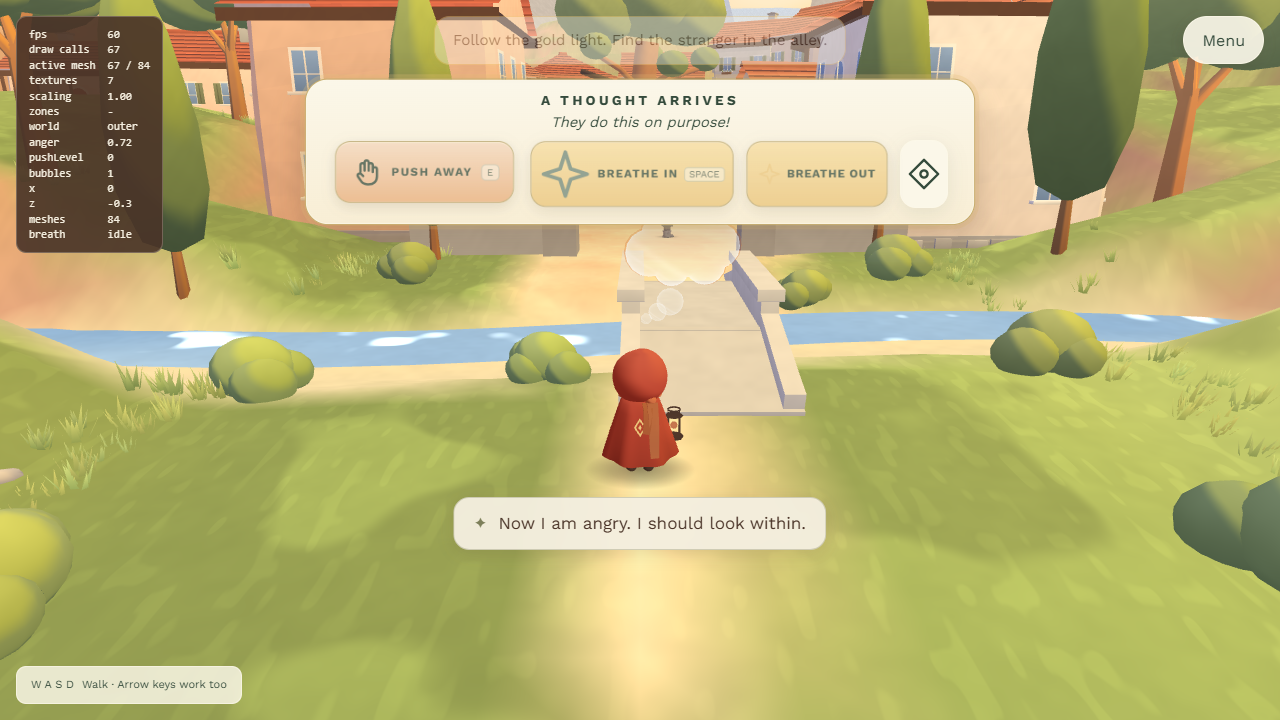
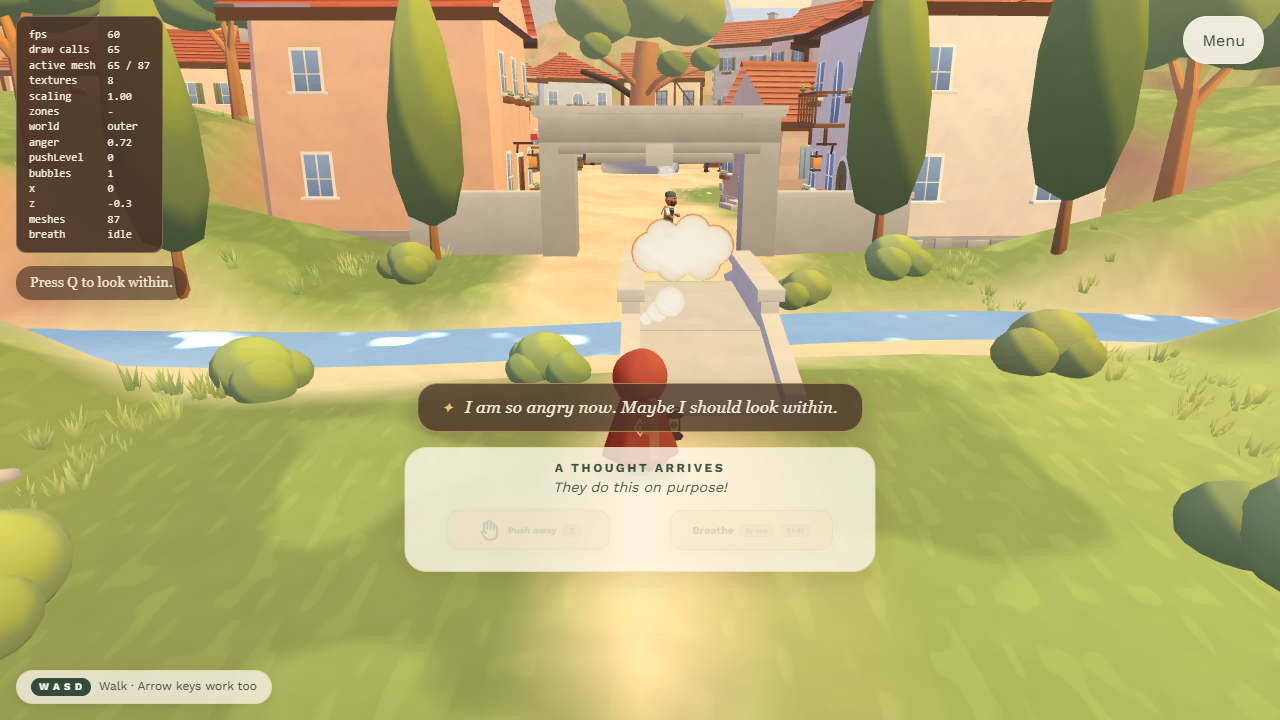
ui: replace tutorial cards with control spotlight and callout; one control set on touch laptops

diff --git a/src/game/Story.ts b/src/game/Story.ts
@@ -13,7 +13,7 @@ import { EndCard } from '../ui/EndCard';
 import { Beacon } from './Beacon';
 import { Wayfinding } from './Wayfinding';
 import { NextStepHint } from '../ui/NextStepHint';
-import { ActionCard, type ActionCardView } from '../ui/ActionCard';
+import { ControlSpotlight, type SpotlightTarget } from '../ui/ControlSpotlight';
 import { SpeechBubble } from '../ui/SpeechBubble';
 import type { Anger } from './Anger';
 import type { Lantern } from './Lantern';
@@ -61,7 +61,8 @@ export class Story {
   private readonly outerWay: Wayfinding;
   private readonly innerWay: Wayfinding;
   private readonly nextStep: NextStepHint;
-  private readonly card: ActionCard;
+  private readonly spot: ControlSpotlight;
+  private spotId = '';
   private readonly cardDone = new Set<string>();
   /** Idle reminder: current step signature and seconds spent in it. */
   private stepSig = '';
@@ -107,8 +108,7 @@ export class Story {
     this.outerWay = new Wayfinding(deps.outer.scene, (x, z) => deps.outer.groundY(x, z));
     this.innerWay = new Wayfinding(deps.inner.scene, (x, z) => deps.inner.groundY(x, z));
     this.nextStep = new NextStepHint(deps.ui);
-    this.card = new ActionCard(deps.ui, deps.dialogue.line('cardClose'), deps.actions);
-    this.card.onDismiss = (id) => this.cardDone.add(id);
+    this.spot = new ControlSpotlight(deps.ui, deps.touch);
     // Before the bump both trees are healthy and the root is not burned (reveal rule).
     deps.outer.setOldTreeBranchHealth(1);
     deps.inner.setBranchHealth(1);
@@ -262,7 +262,7 @@ export class Story {
     const needAngry = f.bumped && !this.angryInnerVisited && !f.helped && !nearAlley;
     if (shown === 'outer' && !busy && needAngry) {
       this.angryT += dt;
-      if (this.angryT >= TUNING.story.hintRepeatS * 0.5 && !d.dialogue.busy && this.card.id === '') {
+      if (this.angryT >= TUNING.story.hintRepeatS * 0.5 && !d.dialogue.busy && this.spotId === '') {
         this.angryT = 0;
         this.say('angryLookWithin');
       }
@@ -377,7 +377,7 @@ export class Story {
       sig = uiKey;
     } else if (key === 'stepImp') sig = `${key}${this.impBreaths}`;
     this.updateCard(key, busy, dt);
-    this.updateReminder(dt, sig, key, busy || this.card.id !== '');
+    this.updateReminder(dt, sig, key, busy || this.spotId !== '');
     // Stagger: if the inner voice is speaking when the objective changes, the new objective waits a moment.
     if (uiKey !== this.shownUiKey) {
       if (this.shownUiKey !== '' && d.dialogue.busy && this.objectiveDelay < 0) this.objectiveDelay = OBJECTIVE_STAGGER_S;
@@ -394,49 +394,50 @@ export class Story {
       this.objectiveDelay = -1;
     }
     // While a card or the opening line is the one text on screen, the objective and its label stay hidden.
-    const alone = this.card.id !== '' || (d.dialogue.busy && this.lastLineKey === 'taskLantern');
+    const alone = this.spot.shown || (d.dialogue.busy && this.lastLineKey === 'taskLantern');
     this.nextStep.update(alone ? `${this.shownUiKey}#` : this.shownUiKey, alone ? '' : this.shownLine, label ? d.dialogue.line(label) : '', d.dialogue.line('targetTurn'), busy || alone ? null : target, world.scene, world.camera, this.shownBadge);
   }
 
-  private cardFor(key: string): ActionCardView | null {
+  private cardFor(key: string): { id: string; target: SpotlightTarget; text: string } | null {
     const dl = this.d.dialogue;
     const f = this.state.flags;
     let id = '';
-    let kind: ActionCardView['kind'] = 'ok';
-    let icon: ActionCardView['icon'] = 'look-within';
-    let keyCap = '';
+    let target: SpotlightTarget = 'look';
+    let text = 'spotLook';
     if (key === 'stepSquare') {
-      if (this.begun && !this.movedSinceBegin) id = 'cardMove';
-      else if (this.needsBreathHelp()) { id = 'cardBreathe'; kind = 'hold'; icon = 'breathe'; keyCap = 'Space'; }
-    } else if (key === 'stepFirstInside') { id = 'cardLookFirst'; kind = 'look'; keyCap = 'Q'; }
-    else if (key === 'stepAngry') { id = 'cardLookImp'; kind = 'look'; keyCap = 'Q'; }
-    else if (key === 'stepInside') { id = 'cardLookInside'; kind = 'look'; keyCap = 'Q'; }
-    else if (key === 'stepReturn' || key === 'stepReturnAlley' || key === 'stepReturnTree') { id = 'cardGoOut'; kind = 'look'; keyCap = 'Q'; }
-    else if (key === 'stepAlley') id = 'cardAlley';
-    else if (key === 'stepApples') { id = 'cardApples'; kind = 'press'; icon = 'collect'; keyCap = 'E'; }
-    else if (key === 'stepImp' || key === 'stepImpApproach') { id = f.helped ? 'cardImp' : ''; kind = 'hold'; icon = 'breathe'; keyCap = 'Space'; }
-    else if (key === 'stepTree') { id = 'cardTree'; kind = 'press'; icon = 'push'; keyCap = 'E'; }
+      if (this.begun && !this.movedSinceBegin) { id = 'cardMove'; target = 'move'; text = this.d.touch ? 'spotMoveTouch' : 'spotMove'; }
+      else if (this.needsBreathHelp()) { id = 'cardBreathe'; target = 'breathe'; text = 'spotBreathe'; }
+    } else if (key === 'stepFirstInside') id = 'cardLookFirst';
+    else if (key === 'stepAngry') id = 'cardLookImp';
+    else if (key === 'stepInside') id = 'cardLookInside';
+    else if (key === 'stepReturn' || key === 'stepReturnAlley' || key === 'stepReturnTree') { id = 'cardGoOut'; text = 'spotGoOut'; }
+    else if (key === 'stepApples') { id = 'cardApples'; target = 'hand'; text = 'spotApples'; }
+    else if (key === 'stepImp' || key === 'stepImpApproach') { id = f.helped ? 'cardImp' : ''; target = 'breathe'; text = 'spotImp'; }
+    else if (key === 'stepTree') { id = 'cardTree'; target = 'hand'; text = 'spotTree'; }
     if (!id || this.cardDone.has(id)) return null;
-    return { id, kind, icon, key: this.d.touch ? '' : keyCap, title: dl.line(`${id}Title`), text: dl.line(`${id}Text`), button: dl.line(`${id}Button`) };
+    return { id, target, text: dl.line(text) };
   }
 
-  /** One tutorial card per step. It closes when the step is done or on dismiss, and never comes back. */
+  /** One control spotlight per step. It ends when the step is done or the timer runs out, and never comes back. */
   private updateCard(key: string, busy: boolean, dt: number): void {
     const want = this.cardFor(key);
-    if (this.card.id && this.card.id !== want?.id) this.cardDone.add(this.card.id);
-    // A card never stacks with an inner-voice line: it waits (and comes back) while a line is shown.
-    if (!want || busy || this.d.dialogue.busy || this.d.dialogue.line('cardClose') === '') {
-      this.card.hide();
+    if (this.spotId && this.spotId !== want?.id) this.cardDone.add(this.spotId);
+    // The callout never stacks with an inner-voice line: it waits (and comes back) while a line is shown.
+    if (!want || busy || this.d.dialogue.busy || want.text === '') {
+      this.spotId = '';
+      this.spot.spotlight(null, '');
       return;
     }
-    if (this.card.id !== want.id) this.cardT = 0;
+    if (this.spotId !== want.id) this.cardT = 0;
     this.cardT += dt;
     if (this.cardT >= TUNING.ui.cardSeconds) {
       this.cardDone.add(want.id);
-      this.card.hide();
+      this.spotId = '';
+      this.spot.spotlight(null, '');
       return;
     }
-    this.card.show(want);
+    this.spotId = want.id;
+    this.spot.spotlight(want.target, want.text);
   }
 
   /** Calm reminder when the player stays in one step for a while. Stale reminders are dropped on step change. */

diff --git a/src/ui/ControlSpotlight.ts b/src/ui/ControlSpotlight.ts
@@ -1,0 +1,141 @@
+export type SpotlightTarget = 'breathe' | 'look' | 'hand' | 'move';
+
+const DESKTOP: Record<SpotlightTarget, string[]> = {
+  breathe: ['.breathe-action'],
+  look: ['.look-action'],
+  hand: ['.push-action'],
+  move: ['.move-note'],
+};
+const TOUCH: Record<SpotlightTarget, string[]> = {
+  breathe: ['.breath-button'],
+  look: ['.look-button'],
+  hand: ['.hand-button'],
+  move: [],
+};
+const MARGIN = 16;
+const GAP = 14;
+
+interface Box { left: number; right: number; top: number; bottom: number }
+
+/**
+ * Tutorial cue: a soft glow on the real control button plus a small speech-bubble callout next to it.
+ * No extra buttons. The callout never takes taps.
+ */
+export class ControlSpotlight {
+  private readonly el = document.createElement('div');
+  private readonly textEl = document.createElement('span');
+  private current: HTMLElement | null = null;
+  private target: SpotlightTarget | null = null;
+  private raf = 0;
+  private isShown = false;
+
+  constructor(parent: HTMLElement, private readonly touch: boolean) {
+    this.el.className = 'control-callout';
+    this.el.setAttribute('role', 'status');
+    this.textEl.className = 'control-callout-text';
+    const tail = document.createElement('span');
+    tail.className = 'control-callout-tail';
+    this.el.append(this.textEl, tail);
+    parent.appendChild(this.el);
+    window.addEventListener('resize', () => this.place());
+  }
+
+  /** True while the callout is actually visible. */
+  get shown(): boolean { return this.isShown; }
+
+  spotlight(target: SpotlightTarget | null, text: string): void {
+    if (target === this.target && text === this.textEl.textContent) return;
+    this.target = target;
+    if (!target) {
+      this.clearGlow();
+      document.body.classList.remove('spot-on');
+      this.setShown(false);
+      return;
+    }
+    this.textEl.textContent = text;
+    if (!this.raf) this.raf = requestAnimationFrame(this.tick);
+  }
+
+  private readonly tick = (): void => {
+    this.raf = 0;
+    if (!this.target) return;
+    this.place();
+    this.raf = requestAnimationFrame(this.tick);
+  };
+
+  private find(target: SpotlightTarget): HTMLElement | null {
+    for (const sel of (this.touch ? TOUCH : DESKTOP)[target]) {
+      for (const el of document.querySelectorAll<HTMLElement>(sel)) if (this.usable(el)) return el;
+    }
+    return null;
+  }
+
+  private usable(el: HTMLElement): boolean {
+    if (el.closest('.off')) return false;
+    const r = el.getBoundingClientRect();
+    if (r.width < 2 || r.height < 2) return false;
+    for (let n: HTMLElement | null = el; n && n !== document.body; n = n.parentElement) {
+      const cs = getComputedStyle(n);
+      if (cs.display === 'none' || cs.visibility === 'hidden' || parseFloat(cs.opacity) < 0.05) return false;
+    }
+    return true;
+  }
+
+  private clearGlow(): void {
+    this.current?.classList.remove('spotlit');
+    this.current = null;
+  }
+
+  private setShown(on: boolean): void {
+    this.isShown = on;
+    this.el.classList.toggle('show', on);
+  }
+
+  private place(): void {
+    if (!this.target) return;
+    let rect: Box | null = null;
+    const btn = this.find(this.target);
+    if (btn !== this.current) {
+      this.current?.classList.remove('spotlit');
+      this.current = btn;
+      btn?.classList.add('spotlit');
+    }
+    document.body.classList.toggle('spot-on', !!btn);
+    if (btn) rect = btn.getBoundingClientRect();
+    else if (this.target === 'move' && this.touch) {
+      // The walking stick appears under the finger: point at the lower-left area of the screen.
+      rect = { left: innerWidth * 0.3, right: innerWidth * 0.3, top: innerHeight * 0.62, bottom: innerHeight * 0.62 };
+    }
+    if (!rect) { this.setShown(false); return; }
+
+    const bw = this.el.offsetWidth;
+    const bh = this.el.offsetHeight;
+    const vw = innerWidth;
+    const vh = innerHeight;
+    const cx = (rect.left + rect.right) / 2;
+    const cy = (rect.top + rect.bottom) / 2;
+    let side: 'above' | 'below' | 'left' | 'right';
+    if (rect.top - GAP - bh >= MARGIN) side = 'above';
+    else if (rect.bottom + GAP + bh <= vh - MARGIN) side = 'below';
+    else if (rect.left - GAP - bw >= MARGIN) side = 'left';
+    else side = 'right';
+    let x: number;
+    let y: number;
+    if (side === 'above' || side === 'below') {
+      x = cx - bw / 2;
+      y = side === 'above' ? rect.top - GAP - bh : rect.bottom + GAP;
+    } else {
+      y = cy - bh / 2;
+      x = side === 'left' ? rect.left - GAP - bw : rect.right + GAP;
+    }
+    x = Math.min(Math.max(x, MARGIN), Math.max(MARGIN, vw - MARGIN - bw));
+    y = Math.min(Math.max(y, MARGIN), Math.max(MARGIN, vh - MARGIN - bh));
+    const tailX = Math.min(Math.max(cx - x, 18), Math.max(18, bw - 18));
+    const tailY = Math.min(Math.max(cy - y, 14), Math.max(14, bh - 14));
+    this.el.dataset.side = side;
+    this.el.style.transform = `translate(${Math.round(x)}px, ${Math.round(y)}px)`;
+    this.el.style.setProperty('--tail-x', `${Math.round(tailX)}px`);
+    this.el.style.setProperty('--tail-y', `${Math.round(tailY)}px`);
+    this.setShown(true);
+  }
+}

diff --git a/src/ui/thought-card.css b/src/ui/thought-card.css
@@ -158,28 +158,3 @@ body.touch .breath-button.thought-choice-active .control-icon { width: 24px; hei
   .breathe-action::before, body.touch .breath-button.thought-choice-active::before { transform: none; opacity: calc(var(--breath-level, 0) * .85); }
 }
 
-/* Tutorial action card: same plaque, one big action button. Never blocks movement (only the button takes taps). */
-.thought-plaque.action-card { --tc-w: min(420px, calc(100vw - var(--edge-left) - var(--edge-right))); top: calc(var(--edge-top) + 8px); height: auto; padding: 14px 18px 14px; background: color-mix(in srgb, var(--ui-paper) 78%, transparent); border-color: color-mix(in srgb, var(--gold) 32%, transparent); box-shadow: 0 6px 22px color-mix(in srgb, var(--umber) 12%, transparent); }
-.thought-plaque.action-card.open { pointer-events: none; }
-.action-card .thought-plaque-prompt { margin: 4px 18px 10px; font-size: 14px; color: var(--ui-deep); }
-.action-card-row { display: flex; justify-content: center; }
-.action-card-button, .action-card-close { pointer-events: auto; cursor: pointer; font: inherit; }
-.action-card-button {
-  display: flex; align-items: center; justify-content: center; gap: 9px; min-height: 44px; min-width: 160px; padding: 6px 20px;
-  border: 0; border-radius: 999px; color: var(--ui-deep);
-  background: color-mix(in srgb, var(--gold) 70%, var(--ui-paper)); font-weight: 700; letter-spacing: .04em; font-size: 13px;
-  box-shadow: 0 3px 10px color-mix(in srgb, var(--umber) 12%, transparent);
-}
-.action-card-button:hover { filter: brightness(1.04); }
-.action-card-button.held { transform: scale(1.03); box-shadow: 0 0 0 3px color-mix(in srgb, var(--lantern-white) 80%, transparent), 0 0 30px color-mix(in srgb, var(--gold) 80%, transparent); }
-.action-card-button .control-icon { width: 24px; height: 24px; flex: 0 0 auto; }
-.action-card-button kbd { font-size: 10px; letter-spacing: 0; padding: 2px 6px; border-radius: 6px; background: color-mix(in srgb, var(--ui-paper) 55%, transparent); }
-.action-card-close { position: absolute; top: 4px; right: 8px; width: 32px; height: 32px; border: 0; background: none; color: var(--ui-muted); font-size: 22px; line-height: 1; }
-.action-card-button:focus-visible, .action-card-close:focus-visible { outline: 3px solid var(--ui-deep); outline-offset: 2px; }
-body.action-card-open .next-step-hint { opacity: 0 !important; pointer-events: none; }
-body.action-card-open .imp-breath-progress { top: calc(var(--edge-top) + 150px); }
-body.thought-choice-open .action-card { opacity: 0; visibility: hidden; }
-@media (max-height: 520px) {
-  .action-card .thought-plaque-prompt { display: block; margin: 2px 22px 4px; font-size: 12px; }
-  .action-card-button { min-height: 40px; padding: 4px 14px; }
-}

diff --git a/legacy/valley-v1/src/ui/ActionCard.ts b/legacy/valley-v1/src/ui/ActionCard.ts
@@ -102,3 +102,31 @@ export class ActionCard {
     InputManager.setUIKey('Space', false);
   }
 }
+
+/* Removed from src/ui/thought-card.css (tutorial action card CSS, replaced by ControlSpotlight):
+/* Tutorial action card: same plaque, one big action button. Never blocks movement (only the button takes taps). */
+.thought-plaque.action-card { --tc-w: min(420px, calc(100vw - var(--edge-left) - var(--edge-right))); top: calc(var(--edge-top) + 8px); height: auto; padding: 14px 18px 14px; background: color-mix(in srgb, var(--ui-paper) 78%, transparent); border-color: color-mix(in srgb, var(--gold) 32%, transparent); box-shadow: 0 6px 22px color-mix(in srgb, var(--umber) 12%, transparent); }
+.thought-plaque.action-card.open { pointer-events: none; }
+.action-card .thought-plaque-prompt { margin: 4px 18px 10px; font-size: 14px; color: var(--ui-deep); }
+.action-card-row { display: flex; justify-content: center; }
+.action-card-button, .action-card-close { pointer-events: auto; cursor: pointer; font: inherit; }
+.action-card-button {
+  display: flex; align-items: center; justify-content: center; gap: 9px; min-height: 44px; min-width: 160px; padding: 6px 20px;
+  border: 0; border-radius: 999px; color: var(--ui-deep);
+  background: color-mix(in srgb, var(--gold) 70%, var(--ui-paper)); font-weight: 700; letter-spacing: .04em; font-size: 13px;
+  box-shadow: 0 3px 10px color-mix(in srgb, var(--umber) 12%, transparent);
+}
+.action-card-button:hover { filter: brightness(1.04); }
+.action-card-button.held { transform: scale(1.03); box-shadow: 0 0 0 3px color-mix(in srgb, var(--lantern-white) 80%, transparent), 0 0 30px color-mix(in srgb, var(--gold) 80%, transparent); }
+.action-card-button .control-icon { width: 24px; height: 24px; flex: 0 0 auto; }
+.action-card-button kbd { font-size: 10px; letter-spacing: 0; padding: 2px 6px; border-radius: 6px; background: color-mix(in srgb, var(--ui-paper) 55%, transparent); }
+.action-card-close { position: absolute; top: 4px; right: 8px; width: 32px; height: 32px; border: 0; background: none; color: var(--ui-muted); font-size: 22px; line-height: 1; }
+.action-card-button:focus-visible, .action-card-close:focus-visible { outline: 3px solid var(--ui-deep); outline-offset: 2px; }
+body.action-card-open .next-step-hint { opacity: 0 !important; pointer-events: none; }
+body.action-card-open .imp-breath-progress { top: calc(var(--edge-top) + 150px); }
+body.thought-choice-open .action-card { opacity: 0; visibility: hidden; }
+@media (max-height: 520px) {
+  .action-card .thought-plaque-prompt { display: block; margin: 2px 22px 4px; font-size: 12px; }
+  .action-card-button { min-height: 40px; padding: 4px 14px; }
+}
+*/

diff --git a/src/ui/hud-calm.css b/src/ui/hud-calm.css
@@ -205,3 +205,16 @@ body.touch .breath-button.thought-choice-active .control-label { letter-spacing:
 @media (max-width: 700px) {
   .speech-bubble { max-width: min(70vw, 210px); padding: 8px 13px; font-size: 15px; line-height: 1.4; }
 }
+
+/* ---------- Control spotlight: glow on the real button + small callout (replaces the tutorial cards) ---------- */
+.control-callout { position: fixed; left: 0; top: 0; z-index: 9; max-width: min(260px, calc(100vw - 32px)); padding: 9px 14px; border: 1px solid color-mix(in srgb, var(--gold) 45%, transparent); border-radius: 14px; background: color-mix(in srgb, var(--ui-paper) 94%, transparent); box-shadow: 0 6px 20px color-mix(in srgb, var(--umber) 14%, transparent); color: var(--ui-deep); font-size: 14px; line-height: 1.35; text-align: center; pointer-events: none; opacity: 0; transition: opacity .5s ease; }
+.control-callout.show { opacity: 1; }
+.control-callout-tail { position: absolute; width: 12px; height: 12px; background: inherit; border: inherit; transform: rotate(45deg); }
+.control-callout[data-side="above"] .control-callout-tail { left: var(--tail-x, 50%); bottom: -7px; margin-left: -6px; border-top: 0; border-left: 0; }
+.control-callout[data-side="below"] .control-callout-tail { left: var(--tail-x, 50%); top: -7px; margin-left: -6px; border-bottom: 0; border-right: 0; }
+.control-callout[data-side="left"] .control-callout-tail { top: var(--tail-y, 50%); right: -7px; margin-top: -6px; border-bottom: 0; border-left: 0; }
+.control-callout[data-side="right"] .control-callout-tail { top: var(--tail-y, 50%); left: -7px; margin-top: -6px; border-top: 0; border-right: 0; }
+.spotlit { box-shadow: 0 0 0 3px color-mix(in srgb, var(--gold) 70%, transparent), 0 0 22px 6px color-mix(in srgb, var(--gold) 55%, transparent) !important; animation: spot-pulse 1.6s ease-in-out infinite; }
+@keyframes spot-pulse { 0%, 100% { box-shadow: 0 0 0 2px color-mix(in srgb, var(--gold) 45%, transparent), 0 0 12px 2px color-mix(in srgb, var(--gold) 35%, transparent); } 50% { box-shadow: 0 0 0 4px color-mix(in srgb, var(--gold) 80%, transparent), 0 0 26px 8px color-mix(in srgb, var(--gold) 60%, transparent); } }
+body.spot-on :is(.breathe-action, .breath-secondary, .push-action, .look-action, .breath-button, .hand-button, .look-button):not(.spotlit) { opacity: .55; }
+@media (prefers-reduced-motion: reduce) { .spotlit { animation: none; } .control-callout { transition: none; } }

diff --git a/src/game/Game.ts b/src/game/Game.ts
@@ -104,7 +104,7 @@ export class Game {
       this.controls = new ControlsHint(ui, (key) => this.dialogue.line(key), {
         push: () => this.press(),
         lookWithin: () => this.toggle(),
-      });
+      }, this.touch);
       this.updateLookWithinLabels();
       BreathButton.setTexts(this.dialogue.line('controlsBreathe'), this.dialogue.line('controlsHoldRelease'));
       HandButton.setTexts(this.dialogue.line('controlsPush'), this.dialogue.line('controlsInteract'), this.dialogue.line('controlsCollectApple'), this.dialogue.line('controlsTapAction'));
@@ -143,7 +143,7 @@ export class Game {
         if (choice === 'begin') StoryState.clear();
         InputManager.resetAll();
         window.dispatchEvent(new Event('blur'));
-        this.story = new Story({ engine: this.engine, ui, outer: this.outer, inner: this.inner, anger: this.anger, dialogue: this.dialogue, outerLantern, innerLantern, touch, actions: { look: () => this.toggle(), press: () => this.press() } });
+        this.story = new Story({ engine: this.engine, ui, outer: this.outer, inner: this.inner, anger: this.anger, dialogue: this.dialogue, outerLantern, innerLantern, touch: this.touch, actions: { look: () => this.toggle(), press: () => this.press() } });
         this.story.endCard.setLabels(dl.line('endStatus'), dl.line('endContinue'));
         this.story.endCard.onDismiss = () => {
           InputManager.resetAll();

diff --git a/src/ui/ControlsHint.ts b/src/ui/ControlsHint.ts
@@ -23,8 +23,10 @@ export class ControlsHint {
     parent: HTMLElement,
     private readonly texts: (key: string) => string,
     actions?: { push: () => void; lookWithin: () => void },
+    touch = false,
   ) {
-    this.touch = typeof matchMedia === 'function' && matchMedia('(pointer: coarse)').matches;
+    // Same decision as Game (isTouchDevice or ?touch): only one control set is on screen.
+    this.touch = touch;
     this.el = document.createElement('div');
     this.el.className = 'controls-hint';
     if (this.touch) this.el.style.display = 'none';

diff --git a/src/core/Audio.ts b/src/core/Audio.ts
@@ -70,7 +70,7 @@ class AudioSystem {
     // Very soft tick for calm UI buttons (menu, cards, start, end).
     document.addEventListener('click', (e) => {
       const t = e.target;
-      if (t instanceof Element && t.closest('.menu-open,.menu-close,.menu-return,.action-card-button,.action-card-close,.ec-continue,.start-screen button')) {
+      if (t instanceof Element && t.closest('.menu-open,.menu-close,.menu-return,.ec-continue,.start-screen button')) {
         this.tick();
       }
     });

diff --git a/docs/DECISIONS.md b/docs/DECISIONS.md
@@ -129,3 +129,5 @@ Keep all game inputs, story text, save behavior and the 2-second breath timing. 
 **L40. Inner world = mystical violet twilight (2026-10-17, Alexander).** Violet/lilac sky with pink glow, stars and faint nebula; lavender haze; blue-violet foliage; blue-green violet grass with glowing crystal flowers; cyan-glowing water; floating light motes (one pooled particle system, `TUNING.inner.motes`). Warm and loving, never dark. Colours in `SHADES.inner*`. Anger heat stays warm orange on top. The outer town is unchanged.
 
 **L41. Calm, Zelda-like interface and gentler texts (2026-10-17, draft).** Alexander asked for a more loving, rounded UI. Bottom-right compact key chips (Space, Shift, E, Q); context actions pop in only when available. New step = centered serif quest banner, then a quiet top-left line after `TUNING.ui.questBannerSeconds`. WASD hint fades after first move. Inner-voice line = italic serif on a soft dark band. Stranger speech bubble has a tail. Thought card = two equal options (Push away / Breathe). 3D thought bubble: opaque ivory cloud, warm rim (warmer with anger), dark readable text. Texts in en.json shortened and softened; keys in story lines removed where the HUD shows them. All drafts. New styles: `src/ui/hud-calm.css`.
+
+**L42. Tutorial cards replaced by control spotlight + callout (2026-10-21).** The action cards repeated the real control buttons, so players on phones did not know where to tap. Now `src/ui/ControlSpotlight.ts` puts a soft gold glow on the real button (others dim) and a small speech-bubble callout next to it. Same step mapping, once-only rule and 4 s timer as before; no close button. The alley card was dropped (no control; objective line and beacon guide). Old `ActionCard` is in `legacy/valley-v1/src/ui/`. Also fixed: `ControlsHint` now gets the same touch decision as `Game` (incl. `?touch`), so only one control set shows. New texts `spot*` in en.json are drafts. `cardClose` and `card*` keys remain unused.

diff --git a/docs/HANDOVER.md b/docs/HANDOVER.md
@@ -96,6 +96,6 @@ Game title: **Transform Karma**. Current PoC (proof of concept = small complete 
 Bump -> `stepAngry` (Q) -> imp recognised (`impFirst`, sets `sawImp`) -> `stepReturnAlley` -> alley. Apples locked until `sawImp`. Walk speed while breathing: `TUNING.breath.walkFactor`. Scenario `scenarios.mjs` updated (lantern-alt, guidance).
 
 ## Update: tutorial action cards (2026-10-17)
-- `src/ui/ActionCard.ts` + `.action-card` in `thought-card.css`. Story picks a card per step key (`Story.cardFor`), shows it once (`cardDone`), hides on step change/dismiss/transition. Texts: `card*` in en.json (drafts, see L39).
+- Tutorial cue: `src/ui/ControlSpotlight.ts` (glow on the real control + callout), driven by `Story.cardFor` / `updateCard`. Old ActionCard is in `legacy/valley-v1/src/ui/` (see L42). Texts: `spot*` in en.json (drafts).
 - Top hint hidden while a card is open; opening bottom hint lines and `angryLookWithin` removed. Idle reminders wait while a card is open.
 - Not carded: push vs breathe on waves (existing thought card), explore, square return.
